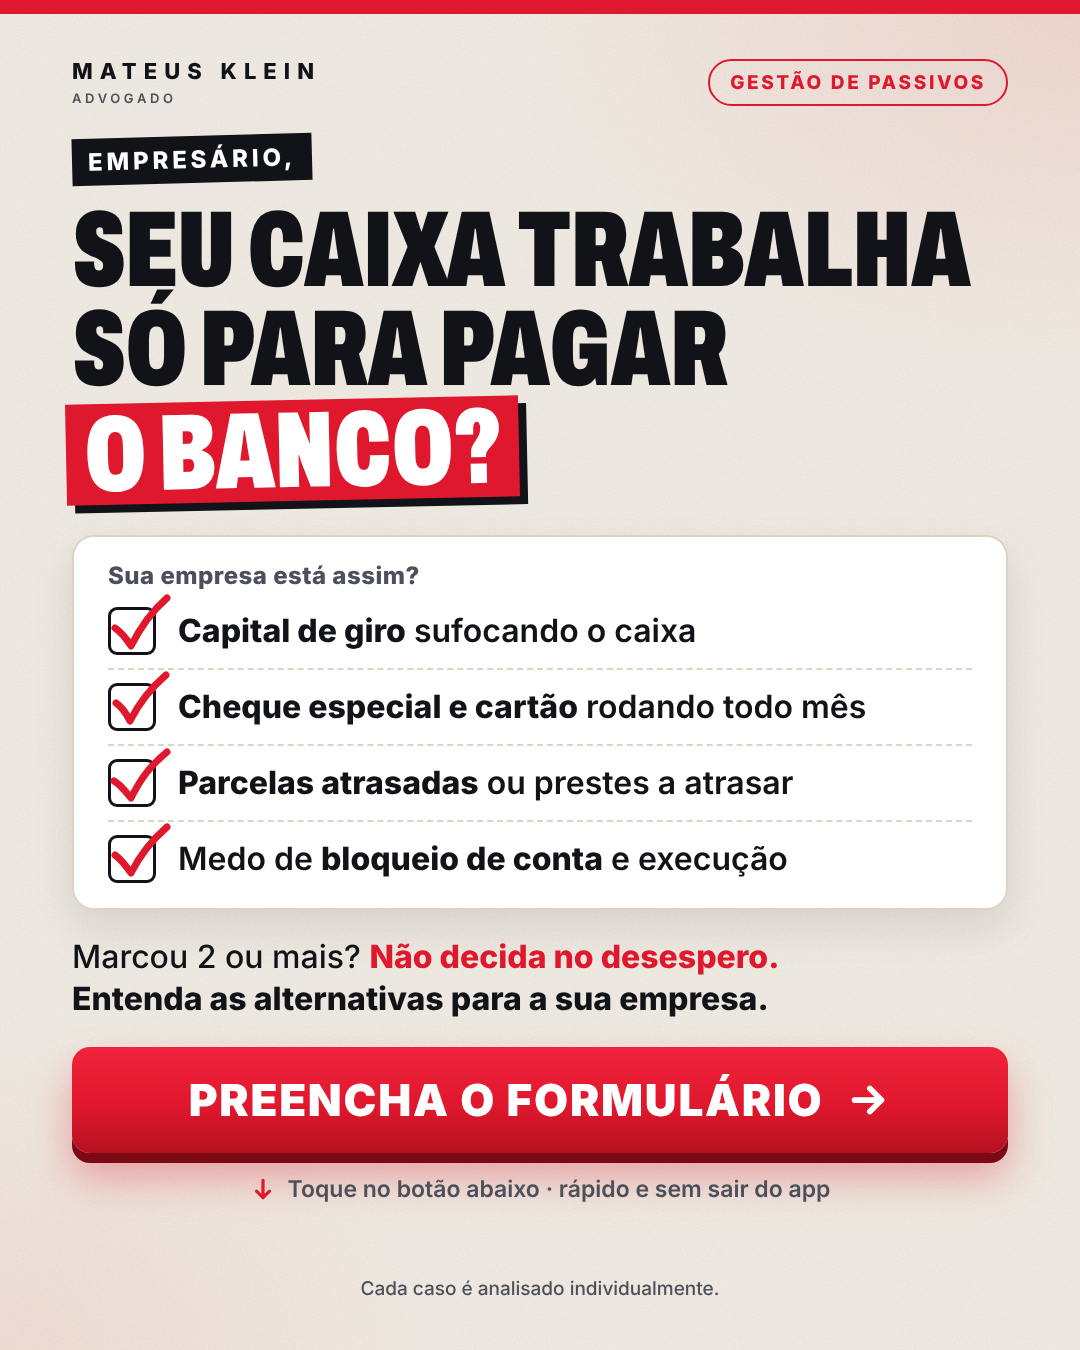
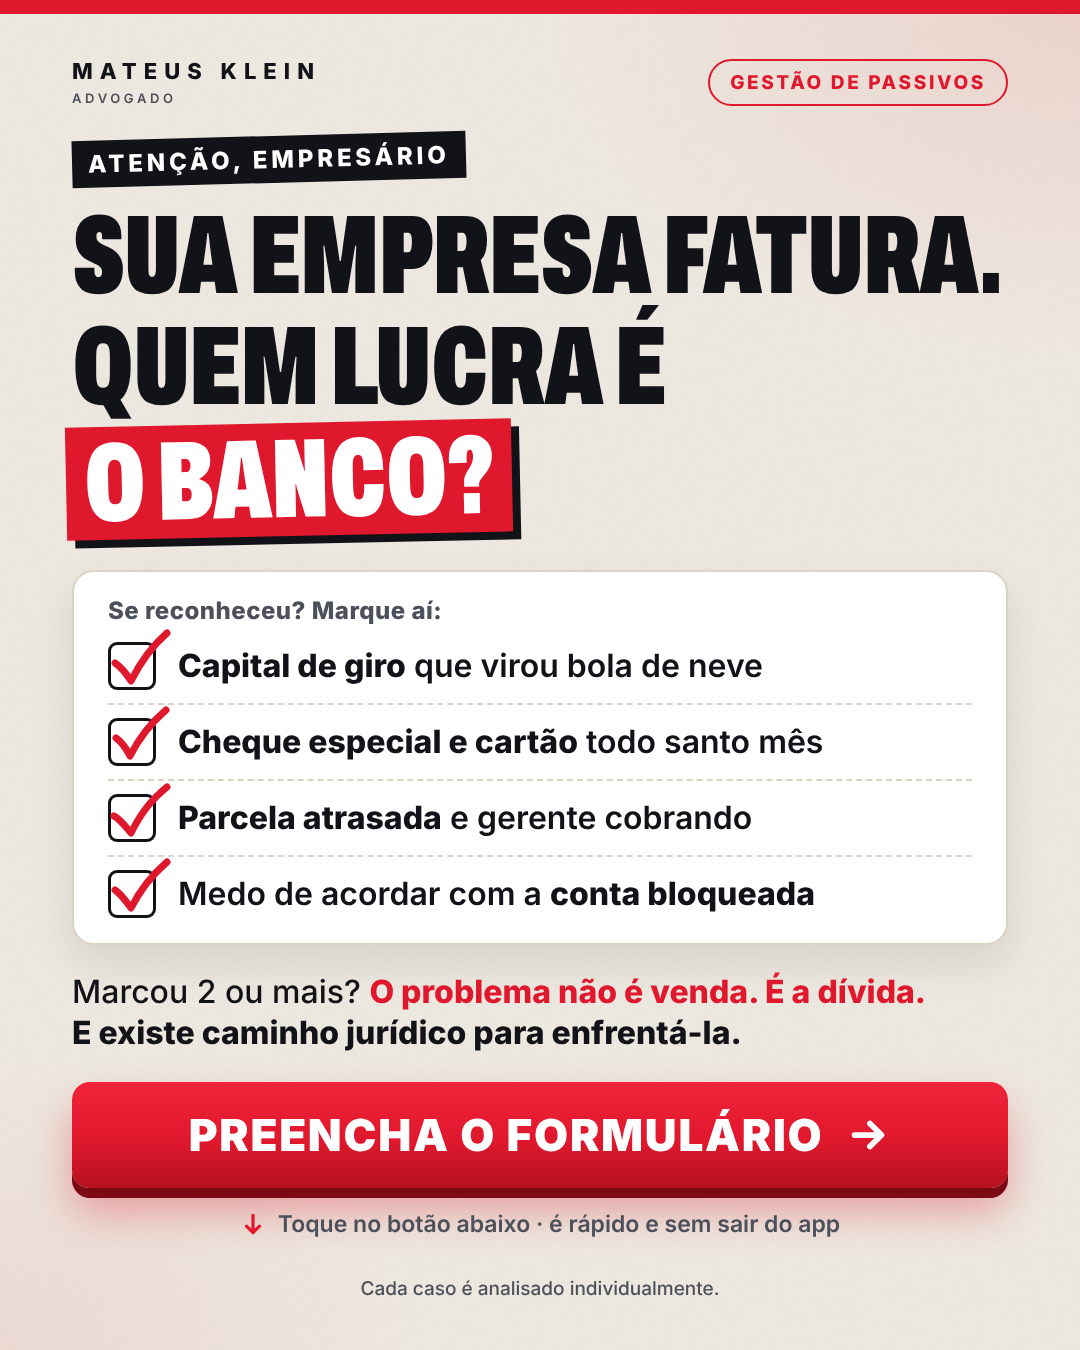
Deixa as frases dos estáticos do Mateus Klein mais chamativas
Novos ganchos: "Sua empresa fatura. Quem lucra é o banco?" e
"Seu dia começa com o banco cobrando?", checklist e CTA mais diretos
e copies do README atualizadas.

Claude-Session: https://claude.ai/code/session_01C88VYQxkJ7jVjcXyguHGBL

Changed region(s): [[0.0611, 0.0933, 0.9472, 0.9333]]

diff --git a/mateus-klein-passivos/estatico-1-checklist.html b/mateus-klein-passivos/estatico-1-checklist.html
@@ -61,8 +61,8 @@
   }
   h1 {
     margin-top: 18px;
-    font-family: 'Archivo', sans-serif; font-stretch: 66%; font-weight: 900;
-    font-size: 108px; line-height: .92; letter-spacing: -.005em; text-transform: uppercase;
+    font-family: 'Archivo', sans-serif; font-stretch: 62%; font-weight: 900;
+    font-size: 112px; line-height: .99; letter-spacing: -.005em; text-transform: uppercase;
   }
   h1 .hl {
     display: inline-block; color: #fff; background: var(--red);
@@ -106,10 +106,10 @@
   }
   .foot b { color: var(--ink); font-weight: 800; letter-spacing: .12em; font-size: 19px; }
   .foot.solo { justify-content: center; }
-  html.story .foot { margin-top: 56px; }
-  html.story .hook { margin-top: 62px; }
-  html.story .card { margin-top: 52px; }
-  html.story .close { margin-top: 50px; }
+  html.story .foot { margin-top: 46px; }
+  html.story .hook { margin-top: 54px; }
+  html.story .card { margin-top: 44px; }
+  html.story .close { margin-top: 40px; }
   html.story .cta { margin-top: 44px; }
 </style>
 </head>
@@ -121,19 +121,19 @@
   </div>
 
   <div class="hook">
-    <span class="eyebrow">EMPRESÁRIO,</span>
-    <h1>Seu caixa trabalha<br>só para pagar<br><span class="hl">o banco?</span></h1>
+    <span class="eyebrow">ATENÇÃO, EMPRESÁRIO</span>
+    <h1>Sua empresa fatura.<br>Quem lucra é<br><span class="hl">o banco?</span></h1>
   </div>
 
   <section class="card">
-    <h2>Sua empresa está assim?</h2>
-    <div class="item"><span class="box"><svg viewBox="0 0 64 64"><path d="M8 34 C14 38 19 44 24 52 C33 34 44 18 60 4" fill="none" stroke="#e0182d" stroke-width="7" stroke-linecap="round" stroke-linejoin="round"/></svg></span><p><b>Capital de giro</b> sufocando o caixa</p></div>
-    <div class="item"><span class="box"><svg viewBox="0 0 64 64"><path d="M9 33 C15 37 19 43 23 51 C32 33 45 17 59 5" fill="none" stroke="#e0182d" stroke-width="7" stroke-linecap="round" stroke-linejoin="round"/></svg></span><p><b>Cheque especial e cartão</b> rodando todo mês</p></div>
-    <div class="item"><span class="box"><svg viewBox="0 0 64 64"><path d="M7 35 C13 38 18 45 24 52 C34 32 44 19 60 6" fill="none" stroke="#e0182d" stroke-width="7" stroke-linecap="round" stroke-linejoin="round"/></svg></span><p><b>Parcelas atrasadas</b> ou prestes a atrasar</p></div>
-    <div class="item"><span class="box"><svg viewBox="0 0 64 64"><path d="M8 33 C14 37 19 44 24 51 C33 33 45 18 60 5" fill="none" stroke="#e0182d" stroke-width="7" stroke-linecap="round" stroke-linejoin="round"/></svg></span><p>Medo de <b>bloqueio de conta</b> e execução</p></div>
+    <h2>Se reconheceu? Marque aí:</h2>
+    <div class="item"><span class="box"><svg viewBox="0 0 64 64"><path d="M8 34 C14 38 19 44 24 52 C33 34 44 18 60 4" fill="none" stroke="#e0182d" stroke-width="7" stroke-linecap="round" stroke-linejoin="round"/></svg></span><p><b>Capital de giro</b> que virou bola de neve</p></div>
+    <div class="item"><span class="box"><svg viewBox="0 0 64 64"><path d="M9 33 C15 37 19 43 23 51 C32 33 45 17 59 5" fill="none" stroke="#e0182d" stroke-width="7" stroke-linecap="round" stroke-linejoin="round"/></svg></span><p><b>Cheque especial e cartão</b> todo santo mês</p></div>
+    <div class="item"><span class="box"><svg viewBox="0 0 64 64"><path d="M7 35 C13 38 18 45 24 52 C34 32 44 19 60 6" fill="none" stroke="#e0182d" stroke-width="7" stroke-linecap="round" stroke-linejoin="round"/></svg></span><p><b>Parcela atrasada</b> e gerente cobrando</p></div>
+    <div class="item"><span class="box"><svg viewBox="0 0 64 64"><path d="M8 33 C14 37 19 44 24 51 C33 33 45 18 60 5" fill="none" stroke="#e0182d" stroke-width="7" stroke-linecap="round" stroke-linejoin="round"/></svg></span><p>Medo de acordar com a <b>conta bloqueada</b></p></div>
   </section>
 
-  <p class="close">Marcou 2 ou mais? <span class="r">Não decida no desespero.</span><br><b>Entenda as alternativas para a sua empresa.</b></p>
+  <p class="close">Marcou 2 ou mais? <span class="r">O problema não é venda. É a dívida.</span><br><b>E existe caminho jurídico para enfrentá-la.</b></p>
 
   <div class="cta">
     <div class="btn">PREENCHA O FORMULÁRIO
@@ -141,7 +141,7 @@
     </div>
     <div class="sub">
       <svg viewBox="0 0 24 24" fill="none" stroke="#e0182d" stroke-width="3" stroke-linecap="round" stroke-linejoin="round"><path d="M12 4v16M6 14l6 6 6-6"/></svg>
-      Toque no botão abaixo · rápido e sem sair do app
+      Toque no botão abaixo · é rápido e sem sair do app
     </div>
   </div>
 

diff --git a/mateus-klein-passivos/estatico-2-notificacoes.html b/mateus-klein-passivos/estatico-2-notificacoes.html
@@ -76,7 +76,7 @@
   h1 {
     margin-top: 34px; text-align: center;
     font-family: 'Archivo', sans-serif; font-stretch: 66%; font-weight: 900;
-    font-size: 100px; line-height: .94; text-transform: uppercase; letter-spacing: -.005em;
+    font-size: 100px; line-height: 1.02; text-transform: uppercase; letter-spacing: -.005em;
   }
   h1 .r { color: var(--red2); text-shadow: 0 0 40px rgba(255,51,73,.45); }
   .lede { margin-top: 18px; text-align: center; font-size: 30px; line-height: 1.35; font-weight: 500; color: rgba(255,255,255,.88); }
@@ -87,7 +87,7 @@
     width: 100%; display: flex; align-items: center; justify-content: center; gap: 22px;
     background: linear-gradient(180deg, #f0233a, var(--red) 55%, var(--red-dark));
     color: #fff; border-radius: 18px; padding: 26px 20px;
-    font-weight: 900; font-size: 44px; letter-spacing: .04em;
+    font-weight: 900; font-size: 40px; letter-spacing: .02em;
     box-shadow: 0 10px 0 #6e0912, 0 26px 50px rgba(224,24,45,.45);
   }
   .btn svg { width: 46px; height: 46px; }
@@ -133,8 +133,8 @@
       <div class="ico"><svg viewBox="0 0 24 24" fill="#fff"><path d="M12 2 2 7v2h20V7z"/><rect x="4" y="10.5" width="2.6" height="7" rx=".4"/><rect x="8.6" y="10.5" width="2.6" height="7" rx=".4"/><rect x="12.8" y="10.5" width="2.6" height="7" rx=".4"/><rect x="17.4" y="10.5" width="2.6" height="7" rx=".4"/><rect x="2" y="19" width="20" height="3" rx=".6"/></svg></div>
       <div class="nb">
         <div class="nh"><span>BANCO</span><time>2 h</time></div>
-        <div class="nt">Limite excedido</div>
-        <div class="nx">Cheque especial acima do limite. Encargos serão cobrados.</div>
+        <div class="nt">Limite estourado</div>
+        <div class="nx">Cheque especial no vermelho. Juros correndo.</div>
       </div>
     </div>
     <div class="note">
@@ -147,11 +147,11 @@
     </div>
   </div>
 
-  <h1>Isso virou <span class="r">rotina</span><br>na sua empresa?</h1>
-  <p class="lede">Pagar no desespero só aperta o caixa.<br><b>Antes de fechar qualquer acordo, entenda suas alternativas.</b></p>
+  <h1>Seu dia começa com<br>o banco <span class="r">cobrando?</span></h1>
+  <p class="lede">Acordo fechado no desespero vira dívida nova.<br><b>Antes de assinar qualquer coisa, entenda suas alternativas.</b></p>
 
   <div class="cta">
-    <div class="btn">QUERO ANALISAR MEU CASO
+    <div class="btn">QUERO PROTEGER MINHA EMPRESA
       <svg viewBox="0 0 24 24" fill="none" stroke="#fff" stroke-width="3" stroke-linecap="round" stroke-linejoin="round"><path d="M5 12h14M13 6l6 6-6 6"/></svg>
     </div>
     <div class="sub">

diff --git a/mateus-klein-passivos/README.md b/mateus-klein-passivos/README.md
@@ -4,45 +4,47 @@ São dois estáticos para a campanha de formulário (CTA do Meta: **Cadastre-se*
 
 | Estático | Feed 4:5 (1080x1350) | Stories/Reels 9:16 (1080x1920) |
 |---|---|---|
-| 1. Checklist ("Seu caixa trabalha só para pagar o banco?") | `png/estatico-1-checklist-feed-4x5.png` | `png/estatico-1-checklist-stories-9x16.png` |
-| 2. Notificações ("Isso virou rotina na sua empresa?") | `png/estatico-2-notificacoes-feed-4x5.png` | `png/estatico-2-notificacoes-stories-9x16.png` |
+| 1. Checklist ("Sua empresa fatura. Quem lucra é o banco?") | `png/estatico-1-checklist-feed-4x5.png` | `png/estatico-1-checklist-stories-9x16.png` |
+| 2. Notificações ("Seu dia começa com o banco cobrando?") | `png/estatico-2-notificacoes-feed-4x5.png` | `png/estatico-2-notificacoes-stories-9x16.png` |
 
 No 9:16, o conteúdo fica dentro da área segura: os 250 px do topo e os 340 px de baixo ficam livres para a interface do Stories/Reels.
 
 ## Por que dois conceitos diferentes
 
-- **Estático 1 (claro, checklist):** o empresário se reconhece nos sintomas (capital de giro, cheque especial/cartão, parcela atrasada, medo de bloqueio). O "marcou 2 ou mais?" funciona como gancho de autoqualificação. O fundo claro destaca no feed, onde a maioria dos anúncios é escura.
-- **Estático 2 (escuro, notificações):** quebra o padrão do feed com notificações de cobrança na tela de bloqueio. O CTA está em primeira pessoa ("Quero analisar meu caso").
+- **Estático 1 (claro, checklist):** contraste direto entre "fatura" e "quem lucra é o banco". O checklist usa a linguagem do dia a dia do empresário ("bola de neve", "todo santo mês", "gerente cobrando", "acordar com a conta bloqueada"). O fechamento vira a chave: "O problema não é venda. É a dívida." O fundo claro destaca no feed, onde a maioria dos anúncios é escura.
+- **Estático 2 (escuro, notificações):** tela de bloqueio às 08:12 cheia de cobrança, com o gancho "Seu dia começa com o banco cobrando?". O apoio é "Acordo fechado no desespero vira dívida nova." O CTA está em primeira pessoa ("Quero proteger minha empresa").
 
 Os dois podem rodar no mesmo conjunto de anúncios para ver qual gancho converte melhor.
 
 ## Copies sugeridas
 
 ### Estático 1: Checklist
-**Título:** Seu caixa trabalha só para pagar o banco?
+**Título:** Sua empresa fatura. Quem lucra é o banco?
 
 **Texto principal:**
-> Empresário, se a sua empresa está usando capital de giro para cobrir parcela, rodando cheque especial e cartão todo mês e já tem parcela atrasada (ou prestes a atrasar), o problema não é só falta de caixa: é a estrutura da dívida.
+> Sua empresa vende, fatura, trabalha o mês inteiro… e no fim quem fica com o lucro é o banco.
 >
-> Pagar no desespero costuma piorar o quadro. Vêm mais juros, mais contratos empilhados e menos fôlego para operar. Antes de aceitar qualquer renegociação, vale entender quais alternativas existem para o passivo bancário da sua empresa.
+> Capital de giro que virou bola de neve. Cheque especial e cartão todo santo mês. Parcela atrasada e gerente ligando. Se você se reconheceu, o problema não é falta de venda: é a estrutura da dívida.
 >
-> Cada caso é analisado individualmente. Se a sua empresa tem dívidas bancárias, clique no botão abaixo e preencha o formulário para uma análise do seu caso.
+> E pagar no desespero só piora: mais juros, mais contratos empilhados e menos caixa para operar. Antes de aceitar qualquer renegociação, entenda quais caminhos jurídicos existem para o passivo bancário da sua empresa.
+>
+> Cada caso é analisado individualmente. Clique no botão abaixo e preencha o formulário.
 
 ### Estático 2: Notificações
-**Título:** Isso virou rotina na sua empresa?
+**Título:** Seu dia começa com o banco cobrando?
 
 **Texto principal:**
-> Parcela em atraso. Limite estourado. Aviso de cobrança.
+> 08h12. Você nem tomou café e o banco já cobrou três vezes.
 >
-> Quando essas mensagens começam a chegar toda semana, muito empresário toma a pior decisão possível: paga no impulso ou aceita o primeiro acordo que o banco oferece.
+> Parcela atrasada. Limite estourado. Aviso de cobrança. Quando isso vira rotina, a tentação é pagar no impulso ou assinar o primeiro acordo que o banco oferece. Só que acordo fechado no desespero costuma virar dívida nova.
 >
-> Nem todo acordo resolve. Alguns só empurram o problema e deixam o caixa ainda mais preso a contratos pesados. O caminho certo depende dos contratos, do tamanho do passivo e do momento da empresa.
+> Antes de assinar qualquer coisa, entenda as alternativas para a dívida bancária da sua empresa. O caminho certo depende dos contratos, do tamanho do passivo e do momento do seu negócio.
 >
-> Cada caso é analisado individualmente. Se a sua empresa tem dívidas bancárias, clique no botão abaixo e preencha o formulário.
+> Cada caso é analisado individualmente. Clique no botão abaixo e preencha o formulário.
 
 ## OAB (Provimento 205/2021 e Código de Ética)
 
-- Não há promessa de resultado, valores, gratuidade nem comparação. O texto é informativo e termina em "Cada caso é analisado individualmente."
+- Não há promessa de resultado, valores, gratuidade nem comparação com outros escritórios. As frases provocam a dor, mas não garantem desfecho, e os dois estáticos terminam com "Cada caso é analisado individualmente."
 - As notificações usam "BANCO" genérico, sem nome nem marca de instituição real.
 - **Nº da OAB:** o art. 44 do Código de Ética pede o número de inscrição na publicidade. Para ele aparecer no rodapé, preencha `const OAB = 'OAB/UF 000.000';` no topo de cada HTML e gere os PNGs de novo.
 
